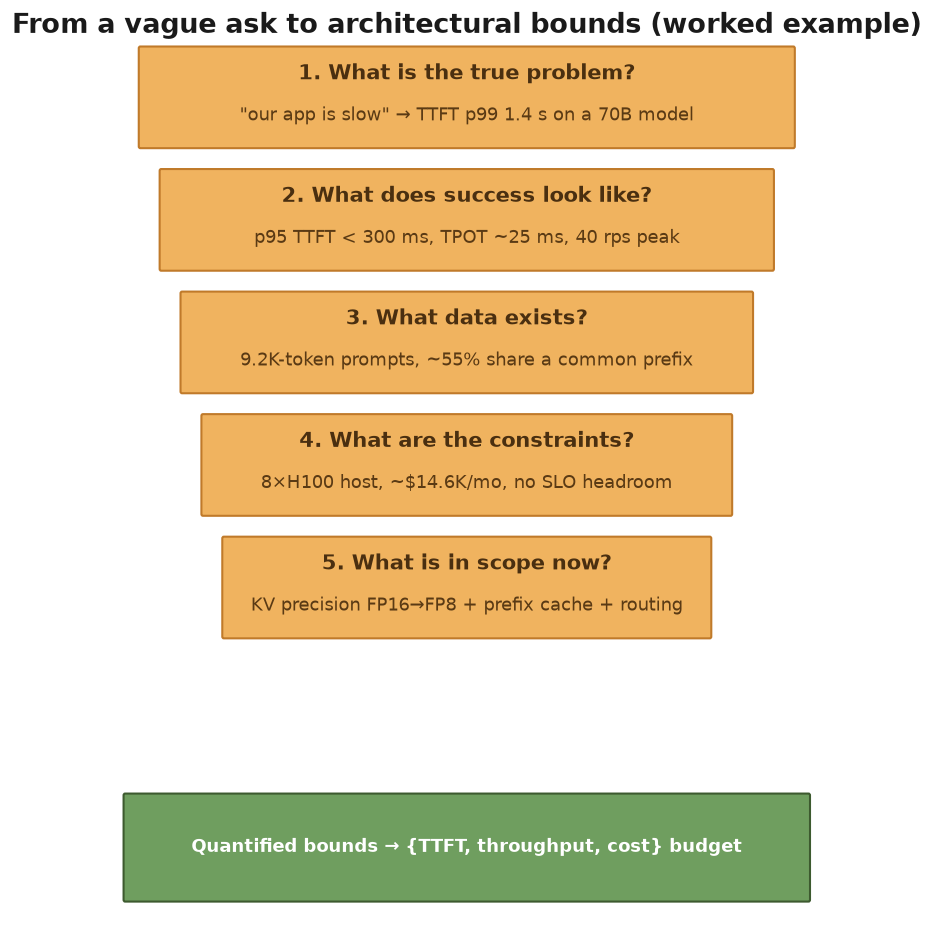
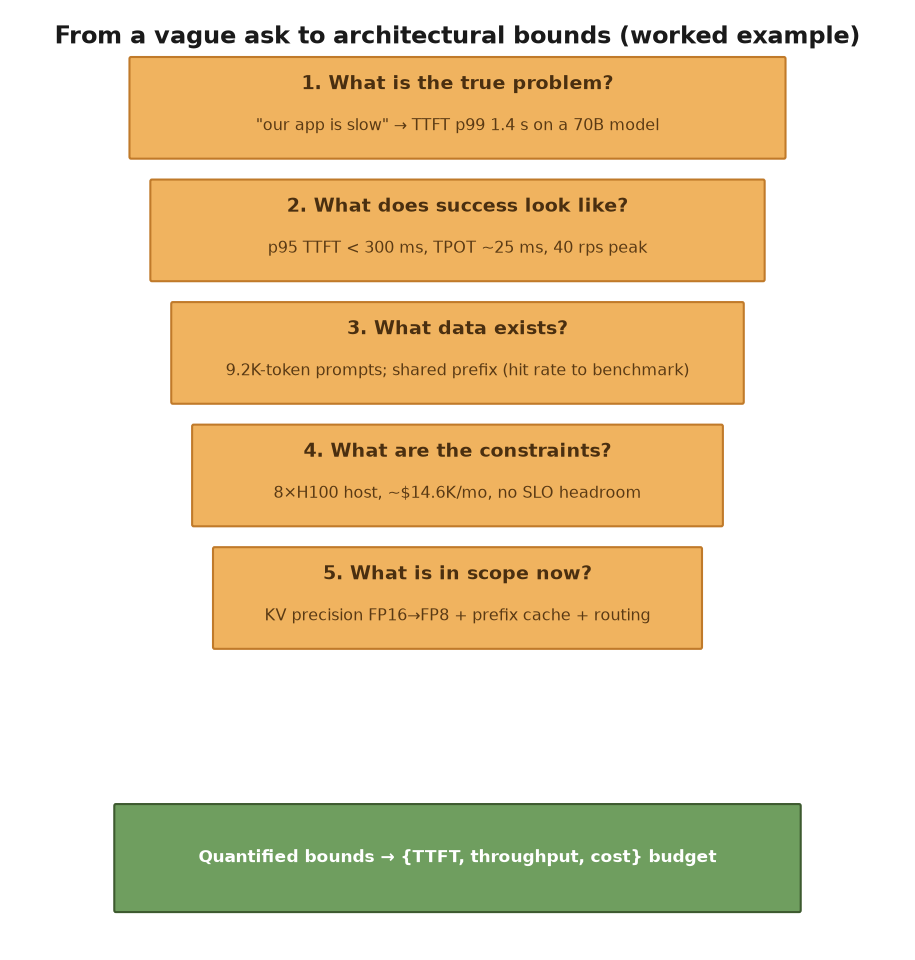
Fix P1 figures 23.1/17.1 (cross-audit): remove the orphan '~55% share a common prefix' (Ch.2 says the hit rate is not yet pinned down); flag the 5.5 req/s burst as a small illustrative example and cross-reference the canonical 40 rps -> ~20 hosts

Changed region(s): [[0.0, 0.0, 1.0, 0.6794], [0.1224, 0.8339, 0.8874, 0.9883]]

diff --git a/render/fig_batch2.py b/render/fig_batch2.py
@@ -108,7 +108,7 @@ stages = [
     ('2. What does success look like?',
      'p95 TTFT < 300 ms, TPOT ~25 ms, 40 rps peak'),
     ('3. What data exists?',
-     '9.2K-token prompts, ~55% share a common prefix'),
+     '9.2K-token prompts; shared prefix (hit rate to benchmark)'),
     ('4. What are the constraints?',
      '8\u00d7H100 host, ~$14.6K/mo, no SLO headroom'),
     ('5. What is in scope now?',

diff --git a/design/manuscript/chapter-17/chapter-17.md b/design/manuscript/chapter-17/chapter-17.md
@@ -14,7 +14,7 @@ We visualize the fleet as a two-level hierarchy. At the top level, a load balanc
 
 The mental model introduces two new invariants. First, the **throughput invariant**: total system throughput ≈ N × throughput_per_host, reduced by a factor ρ that captures load‑balancer overhead, health‑check traffic, and imperfect distribution (typically ρ ∈ [0.85, 0.98] depending on LB sophistication). Second, the **memory invariant**: total GPU memory across the fleet is N × memory_per_host, but the per-host memory available for model weights and KV cache remains the same as the single-host case. The fleet does not increase the per-host model size; it increases the aggregate number of concurrent requests the system can serve by parallelizing across hosts.
 
-![Fig 17.1 - Sizing a fleet of one model by burst peak, headroom, and failover: offered load rises to a ~5.5 req/s burst that a single host (~2.0 req/s analytical planning bound) cannot meet; a 4-host fleet (~8.0 req/s at the analytical bound) is sized ABOVE the burst, and after one host drains the N-1 = 3 residual (~6.0 req/s) still clears it [ILLUSTRATIVE][DERIVED]](figures/fig-17-1701.png)
+![Fig 17.1 - Sizing a fleet of one model by burst peak, headroom, and failover: offered load rises to a ~5.5 req/s burst that a single host (~2.0 req/s analytical planning bound) cannot meet; a 4-host fleet (~8.0 req/s at the analytical bound) is sized ABOVE the burst, and after one host drains the N-1 = 3 residual (~6.0 req/s) still clears it. The 5.5 req/s burst is a small illustrative example of the sizing method; the canonical 40 rps peak is sized the same way to ≈20 hosts (Ch. 17-20) [ILLUSTRATIVE][DERIVED]](figures/fig-17-1701.png)
 
 A critical detail is the **session-affinity** decision. If user sessions must maintain conversation state (KV cache, accumulated tool outputs, retrieval context), the load balancer must route subsequent requests from the same user to the same host (sticky sessions). This reduces cross-host communication but limits the effective parallelism, because a popular user can pin a single host to capacity while other hosts stand underutilized. If sessions are stateless (the model is reloaded or KV cache is discarded between requests), any host can serve any request, and load distribution becomes even. The architect must choose between density (sticky sessions, higher per-host utilization) and evenness (stateless routing, lower per-host utilization but better load balance).
 
